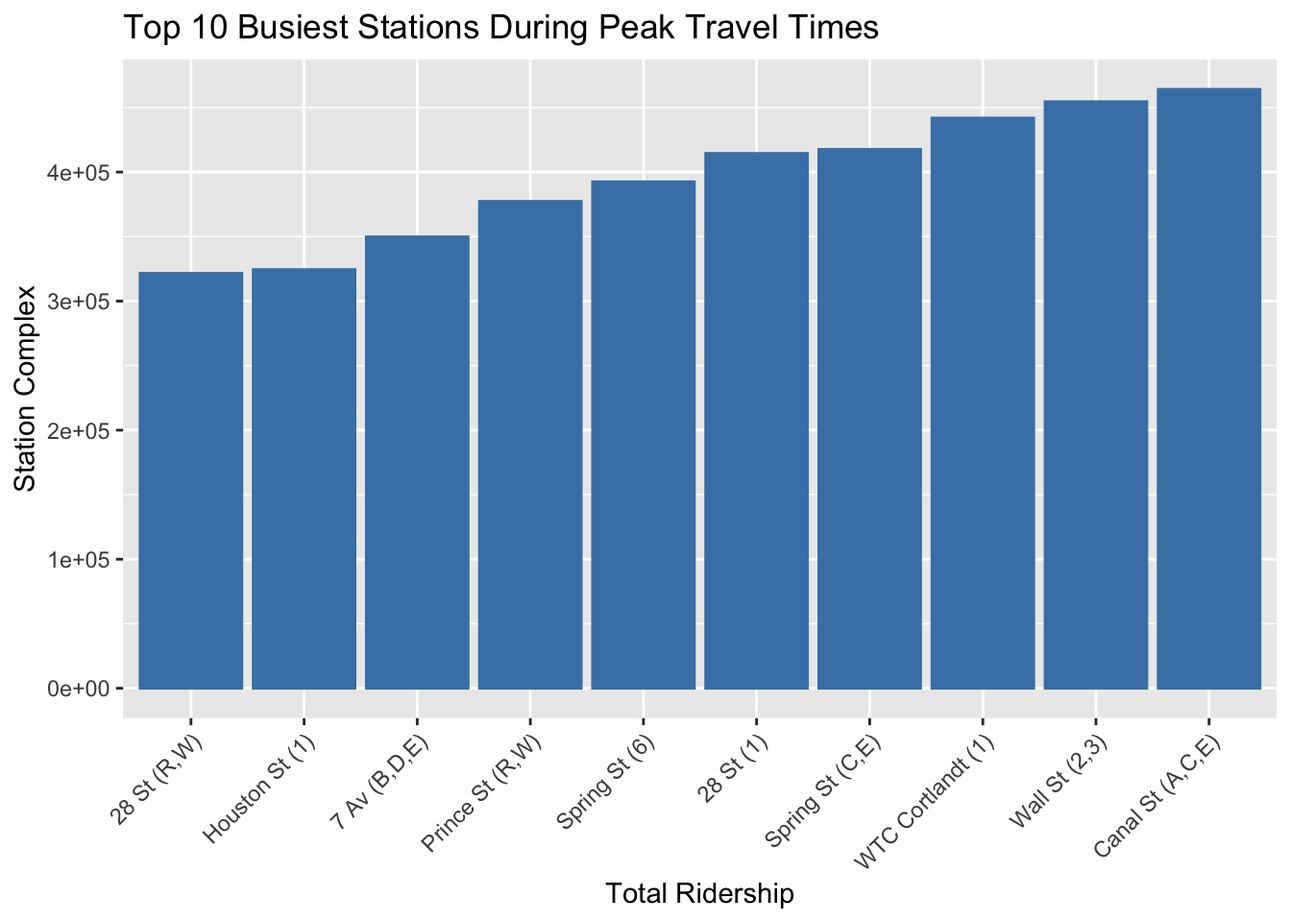
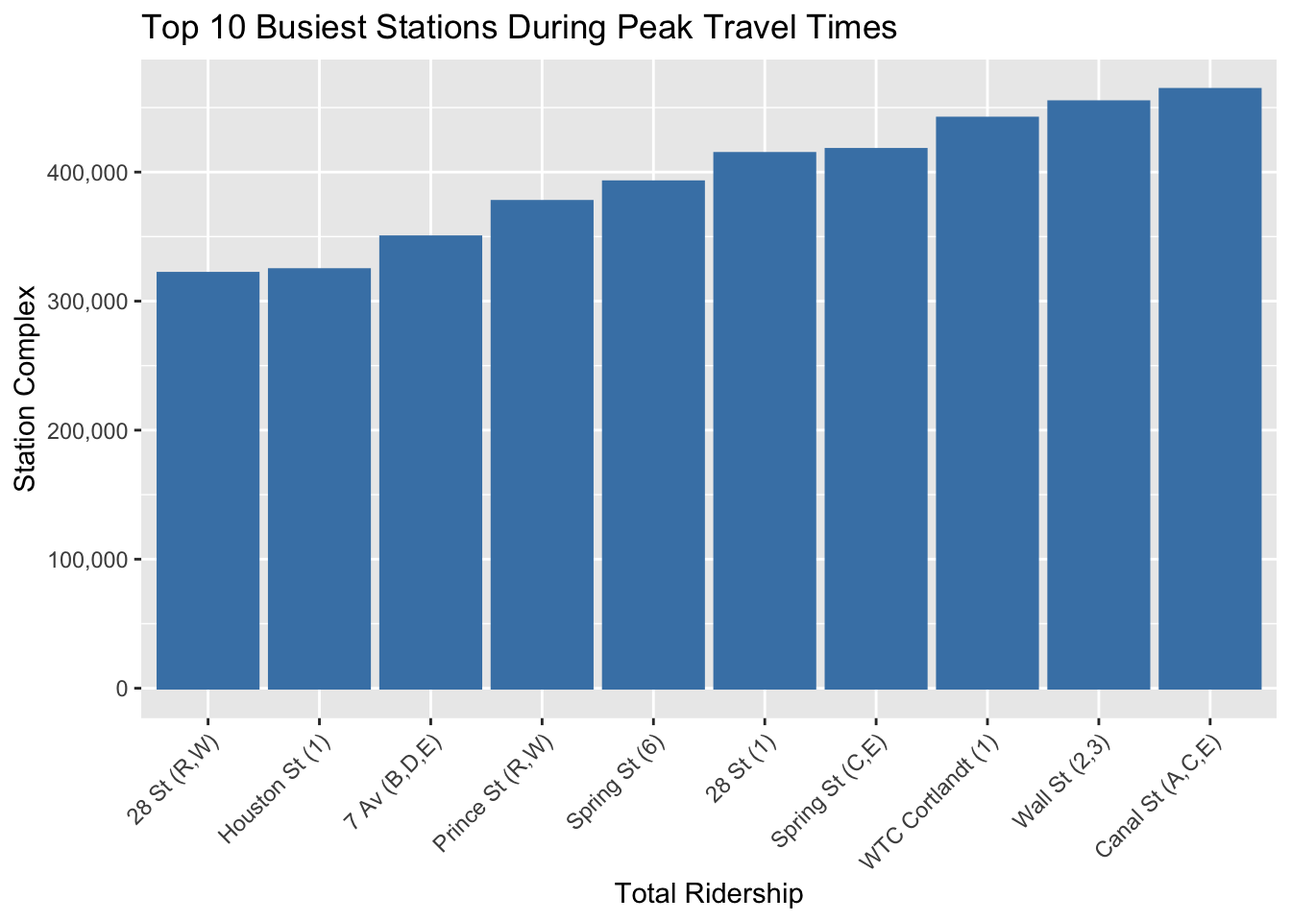
Adding Headings

diff --git a/docs/results.html b/docs/results.html
@@ -191,8 +191,8 @@ pre > code.sourceCode > span > a:first-child::before { text-decoration: underlin
   <li><a href="#navigating-transit-trends-seasonal-ridership-fluctuations-across-boroughs" id="toc-navigating-transit-trends-seasonal-ridership-fluctuations-across-boroughs" class="nav-link" data-scroll-target="#navigating-transit-trends-seasonal-ridership-fluctuations-across-boroughs"><span class="header-section-number">3.6</span> Navigating Transit Trends: Seasonal Ridership Fluctuations Across Boroughs</a></li>
   <li><a href="#hourly-transit-flow-throughout-the-week" id="toc-hourly-transit-flow-throughout-the-week" class="nav-link" data-scroll-target="#hourly-transit-flow-throughout-the-week"><span class="header-section-number">3.7</span> Hourly Transit Flow Throughout the Week</a></li>
   <li><a href="#borough-specific-transit-routes-analyzing-inter-borough-connectivity" id="toc-borough-specific-transit-routes-analyzing-inter-borough-connectivity" class="nav-link" data-scroll-target="#borough-specific-transit-routes-analyzing-inter-borough-connectivity"><span class="header-section-number">3.8</span> Borough-Specific Transit Routes: Analyzing Inter-Borough Connectivity</a></li>
-  <li><a href="#hai" id="toc-hai" class="nav-link" data-scroll-target="#hai"><span class="header-section-number">3.9</span> Hai</a></li>
-  <li><a href="#hai-1" id="toc-hai-1" class="nav-link" data-scroll-target="#hai-1"><span class="header-section-number">3.10</span> Hai</a></li>
+  <li><a href="#interactive-scatter-plot-based-on-zipcode" id="toc-interactive-scatter-plot-based-on-zipcode" class="nav-link" data-scroll-target="#interactive-scatter-plot-based-on-zipcode"><span class="header-section-number">3.9</span> Interactive Scatter Plot based on Zipcode</a></li>
+  <li><a href="#top-10-stations-during-peak-and-non-peak-times" id="toc-top-10-stations-during-peak-and-non-peak-times" class="nav-link" data-scroll-target="#top-10-stations-during-peak-and-non-peak-times"><span class="header-section-number">3.10</span> Top 10 Stations during Peak and Non Peak Times</a></li>
   </ul>
 <div class="toc-actions"><div><i class="bi bi-git"></i></div><div class="action-links"><p><a href="https://prajnag.github.io/MTA-turnstile-data/edit/main/results.qmd" class="toc-action">Edit this page</a></p><p><a href="https://prajnag.github.io/MTA-turnstile-data/issues/new" class="toc-action">Report an issue</a></p></div></div></nav>
     </div>
@@ -395,8 +395,8 @@ pre > code.sourceCode > span > a:first-child::before { text-decoration: underlin
 <span id="cb6-19"><a href="#cb6-19" aria-hidden="true" tabindex="-1"></a><span class="fu">ggplotly</span>(p)</span></code><button title="Copy to Clipboard" class="code-copy-button"><i class="bi"></i></button></pre></div>
 </details>
 <div class="cell-output-display">
-<div class="plotly html-widget html-fill-item-overflow-hidden html-fill-item" id="htmlwidget-06c3bc5710b1a30c9cb9" style="width:100%;height:464px;"></div>
-<script type="application/json" data-for="htmlwidget-06c3bc5710b1a30c9cb9">{"x":{"data":[{"x":[19174,19205,19236,19266,19297,19327],"y":[144,100,164,144,167,174],"text":["month: 2022-07-01<br />Total_Ridership: 144<br />borough: Bronx<br />borough: Bronx","month: 2022-08-01<br />Total_Ridership: 100<br />borough: Bronx<br />borough: Bronx","month: 2022-09-01<br />Total_Ridership: 164<br />borough: Bronx<br />borough: Bronx","month: 2022-10-01<br />Total_Ridership: 144<br />borough: Bronx<br />borough: Bronx","month: 2022-11-01<br />Total_Ridership: 167<br />borough: Bronx<br />borough: Bronx","month: 2022-12-01<br />Total_Ridership: 174<br />borough: Bronx<br />borough: Bronx"],"type":"scatter","mode":"lines","line":{"width":1.8897637795275593,"color":"rgba(68,1,84,1)","dash":"solid"},"hoveron":"points","name":"Bronx","legendgroup":"Bronx","showlegend":true,"xaxis":"x","yaxis":"y","hoverinfo":"text","frame":null},{"x":[19174,19205,19236,19266,19297,19327],"y":[144,200,100,131,156,150],"text":["month: 2022-07-01<br />Total_Ridership: 144<br />borough: Brooklyn<br />borough: Brooklyn","month: 2022-08-01<br />Total_Ridership: 200<br />borough: Brooklyn<br />borough: Brooklyn","month: 2022-09-01<br />Total_Ridership: 100<br />borough: Brooklyn<br />borough: Brooklyn","month: 2022-10-01<br />Total_Ridership: 131<br />borough: Brooklyn<br />borough: Brooklyn","month: 2022-11-01<br />Total_Ridership: 156<br />borough: Brooklyn<br />borough: Brooklyn","month: 2022-12-01<br />Total_Ridership: 150<br />borough: Brooklyn<br />borough: Brooklyn"],"type":"scatter","mode":"lines","line":{"width":1.8897637795275593,"color":"rgba(59,82,139,1)","dash":"solid"},"hoveron":"points","name":"Brooklyn","legendgroup":"Brooklyn","showlegend":true,"xaxis":"x","yaxis":"y","hoverinfo":"text","frame":null},{"x":[19174,19205,19236,19266,19297,19327],"y":[195,185,138,120,135,100],"text":["month: 2022-07-01<br />Total_Ridership: 195<br />borough: Manhattan<br />borough: Manhattan","month: 2022-08-01<br />Total_Ridership: 185<br />borough: Manhattan<br />borough: Manhattan","month: 2022-09-01<br />Total_Ridership: 138<br />borough: Manhattan<br />borough: Manhattan","month: 2022-10-01<br />Total_Ridership: 120<br />borough: Manhattan<br />borough: Manhattan","month: 2022-11-01<br />Total_Ridership: 135<br />borough: Manhattan<br />borough: Manhattan","month: 2022-12-01<br />Total_Ridership: 100<br />borough: Manhattan<br />borough: Manhattan"],"type":"scatter","mode":"lines","line":{"width":1.8897637795275593,"color":"rgba(33,144,140,1)","dash":"solid"},"hoveron":"points","name":"Manhattan","legendgroup":"Manhattan","showlegend":true,"xaxis":"x","yaxis":"y","hoverinfo":"text","frame":null},{"x":[19174,19205,19236,19266,19297,19327],"y":[180,102,143,194,166,136],"text":["month: 2022-07-01<br />Total_Ridership: 180<br />borough: Queens<br />borough: Queens","month: 2022-08-01<br />Total_Ridership: 102<br />borough: Queens<br />borough: Queens","month: 2022-09-01<br />Total_Ridership: 143<br />borough: Queens<br />borough: Queens","month: 2022-10-01<br />Total_Ridership: 194<br />borough: Queens<br />borough: Queens","month: 2022-11-01<br />Total_Ridership: 166<br />borough: Queens<br />borough: Queens","month: 2022-12-01<br />Total_Ridership: 136<br />borough: Queens<br />borough: Queens"],"type":"scatter","mode":"lines","line":{"width":1.8897637795275593,"color":"rgba(93,200,99,1)","dash":"solid"},"hoveron":"points","name":"Queens","legendgroup":"Queens","showlegend":true,"xaxis":"x","yaxis":"y","hoverinfo":"text","frame":null},{"x":[19174,19205,19236,19266,19297,19327],"y":[110,158,130,167,151,119],"text":["month: 2022-07-01<br />Total_Ridership: 110<br />borough: Staten Island<br />borough: Staten Island","month: 2022-08-01<br />Total_Ridership: 158<br />borough: Staten Island<br />borough: Staten Island","month: 2022-09-01<br />Total_Ridership: 130<br />borough: Staten Island<br />borough: Staten Island","month: 2022-10-01<br />Total_Ridership: 167<br />borough: Staten Island<br />borough: Staten Island","month: 2022-11-01<br />Total_Ridership: 151<br />borough: Staten Island<br />borough: Staten Island","month: 2022-12-01<br />Total_Ridership: 119<br />borough: Staten Island<br />borough: Staten Island"],"type":"scatter","mode":"lines","line":{"width":1.8897637795275593,"color":"rgba(253,231,37,1)","dash":"solid"},"hoveron":"points","name":"Staten Island","legendgroup":"Staten Island","showlegend":true,"xaxis":"x","yaxis":"y","hoverinfo":"text","frame":null}],"layout":{"margin":{"t":43.762557077625573,"r":7.3059360730593621,"b":40.182648401826498,"l":43.105022831050235},"plot_bgcolor":"rgba(235,235,235,1)","paper_bgcolor":"rgba(255,255,255,1)","font":{"color":"rgba(0,0,0,1)","family":"","size":14.611872146118724},"title":{"text":"Total Ridership Over Time by Month and Borough","font":{"color":"rgba(0,0,0,1)","family":"","size":17.534246575342465},"x":0,"xref":"paper"},"xaxis":{"domain":[0,1],"automargin":true,"type":"linear","autorange":false,"range":[19166.349999999999,19334.650000000001],"tickmode":"array","ticktext":["Jul","Aug","Sep","Oct","Nov","Dec"],"tickvals":[19174,19205,19236,19266,19297,19327],"categoryorder":"array","categoryarray":["Jul","Aug","Sep","Oct","Nov","Dec"],"nticks":null,"ticks":"outside","tickcolor":"rgba(51,51,51,1)","ticklen":3.6529680365296811,"tickwidth":0.66417600664176002,"showticklabels":true,"tickfont":{"color":"rgba(77,77,77,1)","family":"","size":11.68949771689498},"tickangle":-0,"showline":false,"linecolor":null,"linewidth":0,"showgrid":true,"gridcolor":"rgba(255,255,255,1)","gridwidth":0.66417600664176002,"zeroline":false,"anchor":"y","title":{"text":"Month","font":{"color":"rgba(0,0,0,1)","family":"","size":14.611872146118724}},"hoverformat":".2f"},"yaxis":{"domain":[0,1],"automargin":true,"type":"linear","autorange":false,"range":[95,205],"tickmode":"array","ticktext":["100","125","150","175","200"],"tickvals":[100,125,150,175,200],"categoryorder":"array","categoryarray":["100","125","150","175","200"],"nticks":null,"ticks":"outside","tickcolor":"rgba(51,51,51,1)","ticklen":3.6529680365296811,"tickwidth":0.66417600664176002,"showticklabels":true,"tickfont":{"color":"rgba(77,77,77,1)","family":"","size":11.68949771689498},"tickangle":-0,"showline":false,"linecolor":null,"linewidth":0,"showgrid":true,"gridcolor":"rgba(255,255,255,1)","gridwidth":0.66417600664176002,"zeroline":false,"anchor":"x","title":{"text":"Total Ridership","font":{"color":"rgba(0,0,0,1)","family":"","size":14.611872146118724}},"hoverformat":".2f"},"shapes":[{"type":"rect","fillcolor":null,"line":{"color":null,"width":0,"linetype":[]},"yref":"paper","xref":"paper","x0":0,"x1":1,"y0":0,"y1":1}],"showlegend":true,"legend":{"bgcolor":"rgba(255,255,255,1)","bordercolor":"transparent","borderwidth":1.8897637795275593,"font":{"color":"rgba(0,0,0,1)","family":"","size":11.68949771689498},"title":{"text":"borough","font":{"color":"rgba(0,0,0,1)","family":"","size":14.611872146118724}}},"hovermode":"closest","barmode":"relative"},"config":{"doubleClick":"reset","modeBarButtonsToAdd":["hoverclosest","hovercompare"],"showSendToCloud":false},"source":"A","attrs":{"3d351ce34062":{"x":{},"y":{},"colour":{},"type":"scatter"}},"cur_data":"3d351ce34062","visdat":{"3d351ce34062":["function (y) ","x"]},"highlight":{"on":"plotly_click","persistent":false,"dynamic":false,"selectize":false,"opacityDim":0.20000000000000001,"selected":{"opacity":1},"debounce":0},"shinyEvents":["plotly_hover","plotly_click","plotly_selected","plotly_relayout","plotly_brushed","plotly_brushing","plotly_clickannotation","plotly_doubleclick","plotly_deselect","plotly_afterplot","plotly_sunburstclick"],"base_url":"https://plot.ly"},"evals":[],"jsHooks":[]}</script>
+<div class="plotly html-widget html-fill-item-overflow-hidden html-fill-item" id="htmlwidget-8f3cff77507266e52c4b" style="width:100%;height:464px;"></div>
+<script type="application/json" data-for="htmlwidget-8f3cff77507266e52c4b">{"x":{"data":[{"x":[19174,19205,19236,19266,19297,19327],"y":[178,127,181,115,120,134],"text":["month: 2022-07-01<br />Total_Ridership: 178<br />borough: Bronx<br />borough: Bronx","month: 2022-08-01<br />Total_Ridership: 127<br />borough: Bronx<br />borough: Bronx","month: 2022-09-01<br />Total_Ridership: 181<br />borough: Bronx<br />borough: Bronx","month: 2022-10-01<br />Total_Ridership: 115<br />borough: Bronx<br />borough: Bronx","month: 2022-11-01<br />Total_Ridership: 120<br />borough: Bronx<br />borough: Bronx","month: 2022-12-01<br />Total_Ridership: 134<br />borough: Bronx<br />borough: Bronx"],"type":"scatter","mode":"lines","line":{"width":1.8897637795275593,"color":"rgba(68,1,84,1)","dash":"solid"},"hoveron":"points","name":"Bronx","legendgroup":"Bronx","showlegend":true,"xaxis":"x","yaxis":"y","hoverinfo":"text","frame":null},{"x":[19174,19205,19236,19266,19297,19327],"y":[110,184,157,173,172,180],"text":["month: 2022-07-01<br />Total_Ridership: 110<br />borough: Brooklyn<br />borough: Brooklyn","month: 2022-08-01<br />Total_Ridership: 184<br />borough: Brooklyn<br />borough: Brooklyn","month: 2022-09-01<br />Total_Ridership: 157<br />borough: Brooklyn<br />borough: Brooklyn","month: 2022-10-01<br />Total_Ridership: 173<br />borough: Brooklyn<br />borough: Brooklyn","month: 2022-11-01<br />Total_Ridership: 172<br />borough: Brooklyn<br />borough: Brooklyn","month: 2022-12-01<br />Total_Ridership: 180<br />borough: Brooklyn<br />borough: Brooklyn"],"type":"scatter","mode":"lines","line":{"width":1.8897637795275593,"color":"rgba(59,82,139,1)","dash":"solid"},"hoveron":"points","name":"Brooklyn","legendgroup":"Brooklyn","showlegend":true,"xaxis":"x","yaxis":"y","hoverinfo":"text","frame":null},{"x":[19174,19205,19236,19266,19297,19327],"y":[155,183,140,126,155,179],"text":["month: 2022-07-01<br />Total_Ridership: 155<br />borough: Manhattan<br />borough: Manhattan","month: 2022-08-01<br />Total_Ridership: 183<br />borough: Manhattan<br />borough: Manhattan","month: 2022-09-01<br />Total_Ridership: 140<br />borough: Manhattan<br />borough: Manhattan","month: 2022-10-01<br />Total_Ridership: 126<br />borough: Manhattan<br />borough: Manhattan","month: 2022-11-01<br />Total_Ridership: 155<br />borough: Manhattan<br />borough: Manhattan","month: 2022-12-01<br />Total_Ridership: 179<br />borough: Manhattan<br />borough: Manhattan"],"type":"scatter","mode":"lines","line":{"width":1.8897637795275593,"color":"rgba(33,144,140,1)","dash":"solid"},"hoveron":"points","name":"Manhattan","legendgroup":"Manhattan","showlegend":true,"xaxis":"x","yaxis":"y","hoverinfo":"text","frame":null},{"x":[19174,19205,19236,19266,19297,19327],"y":[120,137,101,115,188,158],"text":["month: 2022-07-01<br />Total_Ridership: 120<br />borough: Queens<br />borough: Queens","month: 2022-08-01<br />Total_Ridership: 137<br />borough: Queens<br />borough: Queens","month: 2022-09-01<br />Total_Ridership: 101<br />borough: Queens<br />borough: Queens","month: 2022-10-01<br />Total_Ridership: 115<br />borough: Queens<br />borough: Queens","month: 2022-11-01<br />Total_Ridership: 188<br />borough: Queens<br />borough: Queens","month: 2022-12-01<br />Total_Ridership: 158<br />borough: Queens<br />borough: Queens"],"type":"scatter","mode":"lines","line":{"width":1.8897637795275593,"color":"rgba(93,200,99,1)","dash":"solid"},"hoveron":"points","name":"Queens","legendgroup":"Queens","showlegend":true,"xaxis":"x","yaxis":"y","hoverinfo":"text","frame":null},{"x":[19174,19205,19236,19266,19297,19327],"y":[140,157,169,123,159,165],"text":["month: 2022-07-01<br />Total_Ridership: 140<br />borough: Staten Island<br />borough: Staten Island","month: 2022-08-01<br />Total_Ridership: 157<br />borough: Staten Island<br />borough: Staten Island","month: 2022-09-01<br />Total_Ridership: 169<br />borough: Staten Island<br />borough: Staten Island","month: 2022-10-01<br />Total_Ridership: 123<br />borough: Staten Island<br />borough: Staten Island","month: 2022-11-01<br />Total_Ridership: 159<br />borough: Staten Island<br />borough: Staten Island","month: 2022-12-01<br />Total_Ridership: 165<br />borough: Staten Island<br />borough: Staten Island"],"type":"scatter","mode":"lines","line":{"width":1.8897637795275593,"color":"rgba(253,231,37,1)","dash":"solid"},"hoveron":"points","name":"Staten Island","legendgroup":"Staten Island","showlegend":true,"xaxis":"x","yaxis":"y","hoverinfo":"text","frame":null}],"layout":{"margin":{"t":43.762557077625573,"r":7.3059360730593621,"b":40.182648401826498,"l":43.105022831050235},"plot_bgcolor":"rgba(235,235,235,1)","paper_bgcolor":"rgba(255,255,255,1)","font":{"color":"rgba(0,0,0,1)","family":"","size":14.611872146118724},"title":{"text":"Total Ridership Over Time by Month and Borough","font":{"color":"rgba(0,0,0,1)","family":"","size":17.534246575342465},"x":0,"xref":"paper"},"xaxis":{"domain":[0,1],"automargin":true,"type":"linear","autorange":false,"range":[19166.349999999999,19334.650000000001],"tickmode":"array","ticktext":["Jul","Aug","Sep","Oct","Nov","Dec"],"tickvals":[19174,19205,19236,19266,19297,19327],"categoryorder":"array","categoryarray":["Jul","Aug","Sep","Oct","Nov","Dec"],"nticks":null,"ticks":"outside","tickcolor":"rgba(51,51,51,1)","ticklen":3.6529680365296811,"tickwidth":0.66417600664176002,"showticklabels":true,"tickfont":{"color":"rgba(77,77,77,1)","family":"","size":11.68949771689498},"tickangle":-0,"showline":false,"linecolor":null,"linewidth":0,"showgrid":true,"gridcolor":"rgba(255,255,255,1)","gridwidth":0.66417600664176002,"zeroline":false,"anchor":"y","title":{"text":"Month","font":{"color":"rgba(0,0,0,1)","family":"","size":14.611872146118724}},"hoverformat":".2f"},"yaxis":{"domain":[0,1],"automargin":true,"type":"linear","autorange":false,"range":[96.650000000000006,192.34999999999999],"tickmode":"array","ticktext":["100","125","150","175"],"tickvals":[100,125,150,175],"categoryorder":"array","categoryarray":["100","125","150","175"],"nticks":null,"ticks":"outside","tickcolor":"rgba(51,51,51,1)","ticklen":3.6529680365296811,"tickwidth":0.66417600664176002,"showticklabels":true,"tickfont":{"color":"rgba(77,77,77,1)","family":"","size":11.68949771689498},"tickangle":-0,"showline":false,"linecolor":null,"linewidth":0,"showgrid":true,"gridcolor":"rgba(255,255,255,1)","gridwidth":0.66417600664176002,"zeroline":false,"anchor":"x","title":{"text":"Total Ridership","font":{"color":"rgba(0,0,0,1)","family":"","size":14.611872146118724}},"hoverformat":".2f"},"shapes":[{"type":"rect","fillcolor":null,"line":{"color":null,"width":0,"linetype":[]},"yref":"paper","xref":"paper","x0":0,"x1":1,"y0":0,"y1":1}],"showlegend":true,"legend":{"bgcolor":"rgba(255,255,255,1)","bordercolor":"transparent","borderwidth":1.8897637795275593,"font":{"color":"rgba(0,0,0,1)","family":"","size":11.68949771689498},"title":{"text":"borough","font":{"color":"rgba(0,0,0,1)","family":"","size":14.611872146118724}}},"hovermode":"closest","barmode":"relative"},"config":{"doubleClick":"reset","modeBarButtonsToAdd":["hoverclosest","hovercompare"],"showSendToCloud":false},"source":"A","attrs":{"435c6f84659d":{"x":{},"y":{},"colour":{},"type":"scatter"}},"cur_data":"435c6f84659d","visdat":{"435c6f84659d":["function (y) ","x"]},"highlight":{"on":"plotly_click","persistent":false,"dynamic":false,"selectize":false,"opacityDim":0.20000000000000001,"selected":{"opacity":1},"debounce":0},"shinyEvents":["plotly_hover","plotly_click","plotly_selected","plotly_relayout","plotly_brushed","plotly_brushing","plotly_clickannotation","plotly_doubleclick","plotly_deselect","plotly_afterplot","plotly_sunburstclick"],"base_url":"https://plot.ly"},"evals":[],"jsHooks":[]}</script>
 </div>
 </div>
 <p>This plot is a line chart that tracks the changes in public transportation ridership across the five boroughs of New York City (Bronx, Brooklyn, Manhattan, Queens, and Staten Island) over a six-month period. The y-axis indicates the total ridership, while the x-axis represents the time, marked from July to December.</p>
@@ -470,8 +470,8 @@ pre > code.sourceCode > span > a:first-child::before { text-decoration: underlin
 <p>The graph presented is a simplified representation of the common transit routes shared between boroughs, where each line corresponds to a borough, and the marks along it represent the various routes that pass through. The lack of intersection between lines suggests that there are no routes in this dataset that are shared between boroughs; each route is unique to its borough. This could indicate a transit system where boroughs operate somewhat independently, or it could be a visual abstraction that does not account for connections or transfers between routes.</p>
 <p>From this graph, we can infer that the transit system is potentially segmented by borough, with each area having distinct routes. The absence of inter-borough routes may reflect a focus on intra-borough connectivity, or it might be a limitation of the dataset or the specific visualization technique used. For urban planners and transit authorities, such a graph could highlight the potential need to improve inter-borough connectivity if such routes are indeed lacking, or it could validate a strategy that prioritizes strengthening transport within each borough</p>
 </section>
-<section id="hai" class="level2" data-number="3.9">
-<h2 data-number="3.9" class="anchored" data-anchor-id="hai"><span class="header-section-number">3.9</span> Hai</h2>
+<section id="interactive-scatter-plot-based-on-zipcode" class="level2" data-number="3.9">
+<h2 data-number="3.9" class="anchored" data-anchor-id="interactive-scatter-plot-based-on-zipcode"><span class="header-section-number">3.9</span> Interactive Scatter Plot based on Zipcode</h2>
 <div class="cell">
 <details>
 <summary>Code</summary>
@@ -505,16 +505,16 @@ using the `.groups` argument.</code></pre>
 <pre><code>Warning: Ignoring 1 observations</code></pre>
 </div>
 <div class="cell-output-display">
-<div class="plotly html-widget html-fill-item-overflow-hidden html-fill-item" id="htmlwidget-530fb227fc718808662e" style="width:100%;height:464px;"></div>
-<script type="application/json" data-for="htmlwidget-530fb227fc718808662e">{"x":{"visdat":{"3d352ad6fd58":["function () ","plotlyVisDat"]},"cur_data":"3d352ad6fd58","attrs":{"3d352ad6fd58":{"x":{},"y":{},"text":{},"mode":"markers","color":{},"alpha_stroke":1,"sizes":[10,100],"spans":[1,20],"type":"scatter"}},"layout":{"margin":{"b":40,"l":60,"t":25,"r":10},"title":"Interactive Scatter Plot of Number of Stations by Zip Code","xaxis":{"domain":[0,1],"automargin":true,"title":"New York Zip Codes"},"yaxis":{"domain":[0,1],"automargin":true,"title":"Number of Stations"},"hovermode":"closest","showlegend":true},"source":"A","config":{"modeBarButtonsToAdd":["hoverclosest","hovercompare"],"showSendToCloud":false},"data":[{"x":[809,810,811,812,813,814,815,816,818,819,820,821,849,880,882,883,884,885,886,887,888,889,890,891,892,893,894,895,896,897,899,900,901,902,903],"y":[7,6,1,3,7,1,2,3,3,2,4,7,1,9,4,1,8,12,7,3,2,6,6,4,5,6,1,6,3,6,5,4,2,7,3],"text":["R635, R622, R637, R636, B014, B013, R623","B017, R641, B018, B019, R639, B016","E009","B026, B025, B024","B020, B022, N555, N551, N549, B021, N553","N535","C016, C018","N121B, N122, N124","B032, B029, B027","H040, H041","K019, H022, H023, H026","N420B, R621, B009, N111, N114, N419, R619","H028","R600, N530, N100, N532, R602, N108, N103, C008, R606","D009, D010, N556, D008","N417","N414, J005, H017, H019, N412, N415, J009, J007","H033, J017, R633, N126, J021, H032, H035, R634, R632, H039, N125, J020","J022, J023, N127, J024, N129, J025, N128","C027, C024, C025","R643, R645","J003, H013, H012, J001, H009, H015","H037, R628, R627, R629, R630, H038","R624, N119, N120, R626","E013, E011, E015, E012, E014","C014, C010, N539A, N542, N536, C012","N116","R617, N422, N110, R608, B004, R610","N548, N543, N546","E005, E003, E006, D003, E001, E004","C019, C020, C021, D002, C023","K017, J013, J016, J012","N405, N408A","E016, N561, N557, D012, D016, D015, N559","G011, N562, G009"],"mode":"markers","type":"scatter","name":"BK","marker":{"color":"rgba(102,194,165,1)","line":{"color":"rgba(102,194,165,1)"}},"textfont":{"color":"rgba(102,194,165,1)"},"error_y":{"color":"rgba(102,194,165,1)"},"error_x":{"color":"rgba(102,194,165,1)"},"line":{"color":"rgba(102,194,165,1)"},"xaxis":"x","yaxis":"y","frame":null},{"x":[647,648,649,650,651,652,653,654,655,673,674,675,676,679,704,705,706,707,708,709],"y":[3,4,4,4,4,1,2,3,6,3,4,5,2,4,7,3,3,1,1,4],"text":["R259, N203, R261","R285, N207, R284, R283","N210, R288, R286, R287","R402, R404, R406, R401","R312, R408, R410, R310","N209","N215, N213","N217, N221, N222","R320, R316, R413, R314, R318, R412","R322, R325, R323","R421, R422, R420, R423","R726, R419, R328, R326, R418","R196, R194","R333, R730, R335, R334","R329, R330, R294, R332, R331, R293, N224","R289, R290, R291","R729, R727, R728","R336","R197","R414, R416, R415, R417"],"mode":"markers","type":"scatter","name":"BX","marker":{"color":"rgba(252,141,98,1)","line":{"color":"rgba(252,141,98,1)"}},"textfont":{"color":"rgba(252,141,98,1)"},"error_y":{"color":"rgba(252,141,98,1)"},"error_x":{"color":"rgba(252,141,98,1)"},"line":{"color":"rgba(252,141,98,1)"},"xaxis":"x","yaxis":"y","frame":null},{"x":[583,590,676,717,718,719,720,721,722,723,724,734,735,736,737,738,739,742,743,744,749,750,751,752,753,754,755,756,757,758,791,792,793,794,795,796,797,798,799,800],"y":[2,1,1,6,4,5,2,3,3,4,1,3,6,4,4,2,2,6,1,2,3,2,2,3,4,4,2,3,1,3,4,3,4,1,1,1,1,3,3,1],"text":["N702, R251","R238","R192","R133, A027, R550, R135, A022, N070","N529, A064, N520, N525","R219, A038, N523, H006, A034","R201, R101","A083, R111, R203","R106, A054, R103","A069, A047, R116, N094","H007","R226, N508, A030","R129, N080, R131, N076, N078, N512","R215, N086, A041, R217","R119, N089, R117, A043","R125, R123","R228, R231","N301, A013, R154, N056, N600, A010","N500","R247, N700","N303, N305, A002","R161B, R160","R164, R162","R170, R172, R168","N035, N030, R302, R301","R173, R174, R304, N026","N701, R249","R252, R254, R256","N024","R176, R178, N019","N017, N016A, R180, R182","N007A, N010, R183","R190, N003, R188, N002A","R258","N060","R306","N095","R308, N202, R309","R185, R186, N006A","N602"],"mode":"markers","type":"scatter","name":"M","marker":{"color":"rgba(141,160,203,1)","line":{"color":"rgba(141,160,203,1)"}},"textfont":{"color":"rgba(141,160,203,1)"},"error_y":{"color":"rgba(141,160,203,1)"},"error_x":{"color":"rgba(141,160,203,1)"},"line":{"color":"rgba(141,160,203,1)"},"xaxis":"x","yaxis":"y","frame":null},{"x":[824,838,843,844,845,846,848,849,853,873,874,875,876,877,878,1027,1028,1029,1030,1162,1164,1165,1166,1168,1216,1262],"y":[1,3,7,1,4,5,1,3,1,10,2,2,2,1,2,4,2,2,3,1,6,4,2,3,4,2],"text":["R533","R530, R529, R532","R527, N325A, R526, R528, N329, R525, N327","N330B","N331, N334B, N333A, N336","R521, N322, R523, R524, N318","K026","K022, K024, K025","N182","N401, R516, N312, R510, R507, R504, N307, R509, N309A, N603","R513, R514","N316, N315","R518, R519","R515","R512, R511","N195, N194, N196, N193","N192, N191","N184, N183","N185, N187, N186","N337","N131, N133, N181A, N137, N181, N134","J034, N604, J037, J035","N139, N141","J028, J030, J031","N340A, N339A, N343, N606","N338B, N605"],"mode":"markers","type":"scatter","name":"Q","marker":{"color":"rgba(231,138,195,1)","line":{"color":"rgba(231,138,195,1)"}},"textfont":{"color":"rgba(231,138,195,1)"},"error_y":{"color":"rgba(231,138,195,1)"},"error_x":{"color":"rgba(231,138,195,1)"},"line":{"color":"rgba(231,138,195,1)"},"xaxis":"x","yaxis":"y","frame":null},{"x":[604,607],"y":[1,1],"text":["S101","S102"],"mode":"markers","type":"scatter","name":"SI","marker":{"color":"rgba(166,216,84,1)","line":{"color":"rgba(166,216,84,1)"}},"textfont":{"color":"rgba(166,216,84,1)"},"error_y":{"color":"rgba(166,216,84,1)"},"error_x":{"color":"rgba(166,216,84,1)"},"line":{"color":"rgba(166,216,84,1)"},"xaxis":"x","yaxis":"y","frame":null}],"highlight":{"on":"plotly_click","persistent":false,"dynamic":false,"selectize":false,"opacityDim":0.20000000000000001,"selected":{"opacity":1},"debounce":0},"shinyEvents":["plotly_hover","plotly_click","plotly_selected","plotly_relayout","plotly_brushed","plotly_brushing","plotly_clickannotation","plotly_doubleclick","plotly_deselect","plotly_afterplot","plotly_sunburstclick"],"base_url":"https://plot.ly"},"evals":[],"jsHooks":[]}</script>
+<div class="plotly html-widget html-fill-item-overflow-hidden html-fill-item" id="htmlwidget-fad0d09baab9e0c31c70" style="width:100%;height:464px;"></div>
+<script type="application/json" data-for="htmlwidget-fad0d09baab9e0c31c70">{"x":{"visdat":{"435c1da2c19e":["function () ","plotlyVisDat"]},"cur_data":"435c1da2c19e","attrs":{"435c1da2c19e":{"x":{},"y":{},"text":{},"mode":"markers","color":{},"alpha_stroke":1,"sizes":[10,100],"spans":[1,20],"type":"scatter"}},"layout":{"margin":{"b":40,"l":60,"t":25,"r":10},"title":"Interactive Scatter Plot of Number of Stations by Zip Code","xaxis":{"domain":[0,1],"automargin":true,"title":"New York Zip Codes"},"yaxis":{"domain":[0,1],"automargin":true,"title":"Number of Stations"},"hovermode":"closest","showlegend":true},"source":"A","config":{"modeBarButtonsToAdd":["hoverclosest","hovercompare"],"showSendToCloud":false},"data":[{"x":[809,810,811,812,813,814,815,816,818,819,820,821,849,880,882,883,884,885,886,887,888,889,890,891,892,893,894,895,896,897,899,900,901,902,903],"y":[7,6,1,3,7,1,2,3,3,2,4,7,1,9,4,1,8,12,7,3,2,6,6,4,5,6,1,6,3,6,5,4,2,7,3],"text":["R635, R622, R637, R636, B014, B013, R623","B017, R641, B018, B019, R639, B016","E009","B026, B025, B024","B020, B022, N555, N551, N549, B021, N553","N535","C016, C018","N121B, N122, N124","B032, B029, B027","H040, H041","K019, H022, H023, H026","N420B, R621, B009, N111, N114, N419, R619","H028","R600, N530, N100, N532, R602, N108, N103, C008, R606","D009, D010, N556, D008","N417","N414, J005, H017, H019, N412, N415, J009, J007","H033, J017, R633, N126, J021, H032, H035, R634, R632, H039, N125, J020","J022, J023, N127, J024, N129, J025, N128","C027, C024, C025","R643, R645","J003, H013, H012, J001, H009, H015","H037, R628, R627, R629, R630, H038","R624, N119, N120, R626","E013, E011, E015, E012, E014","C014, C010, N539A, N542, N536, C012","N116","R617, N422, N110, R608, B004, R610","N548, N543, N546","E005, E003, E006, D003, E001, E004","C019, C020, C021, D002, C023","K017, J013, J016, J012","N405, N408A","E016, N561, N557, D012, D016, D015, N559","G011, N562, G009"],"mode":"markers","type":"scatter","name":"BK","marker":{"color":"rgba(102,194,165,1)","line":{"color":"rgba(102,194,165,1)"}},"textfont":{"color":"rgba(102,194,165,1)"},"error_y":{"color":"rgba(102,194,165,1)"},"error_x":{"color":"rgba(102,194,165,1)"},"line":{"color":"rgba(102,194,165,1)"},"xaxis":"x","yaxis":"y","frame":null},{"x":[647,648,649,650,651,652,653,654,655,673,674,675,676,679,704,705,706,707,708,709],"y":[3,4,4,4,4,1,2,3,6,3,4,5,2,4,7,3,3,1,1,4],"text":["R259, N203, R261","R285, N207, R284, R283","N210, R288, R286, R287","R402, R404, R406, R401","R312, R408, R410, R310","N209","N215, N213","N217, N221, N222","R320, R316, R413, R314, R318, R412","R322, R325, R323","R421, R422, R420, R423","R726, R419, R328, R326, R418","R196, R194","R333, R730, R335, R334","R329, R330, R294, R332, R331, R293, N224","R289, R290, R291","R729, R727, R728","R336","R197","R414, R416, R415, R417"],"mode":"markers","type":"scatter","name":"BX","marker":{"color":"rgba(252,141,98,1)","line":{"color":"rgba(252,141,98,1)"}},"textfont":{"color":"rgba(252,141,98,1)"},"error_y":{"color":"rgba(252,141,98,1)"},"error_x":{"color":"rgba(252,141,98,1)"},"line":{"color":"rgba(252,141,98,1)"},"xaxis":"x","yaxis":"y","frame":null},{"x":[583,590,676,717,718,719,720,721,722,723,724,734,735,736,737,738,739,742,743,744,749,750,751,752,753,754,755,756,757,758,791,792,793,794,795,796,797,798,799,800],"y":[2,1,1,6,4,5,2,3,3,4,1,3,6,4,4,2,2,6,1,2,3,2,2,3,4,4,2,3,1,3,4,3,4,1,1,1,1,3,3,1],"text":["N702, R251","R238","R192","R133, A027, R550, R135, A022, N070","N529, A064, N520, N525","R219, A038, N523, H006, A034","R201, R101","A083, R111, R203","R106, A054, R103","A069, A047, R116, N094","H007","R226, N508, A030","R129, N080, R131, N076, N078, N512","R215, N086, A041, R217","R119, N089, R117, A043","R125, R123","R228, R231","N301, A013, R154, N056, N600, A010","N500","R247, N700","N303, N305, A002","R161B, R160","R164, R162","R170, R172, R168","N035, N030, R302, R301","R173, R174, R304, N026","N701, R249","R252, R254, R256","N024","R176, R178, N019","N017, N016A, R180, R182","N007A, N010, R183","R190, N003, R188, N002A","R258","N060","R306","N095","R308, N202, R309","R185, R186, N006A","N602"],"mode":"markers","type":"scatter","name":"M","marker":{"color":"rgba(141,160,203,1)","line":{"color":"rgba(141,160,203,1)"}},"textfont":{"color":"rgba(141,160,203,1)"},"error_y":{"color":"rgba(141,160,203,1)"},"error_x":{"color":"rgba(141,160,203,1)"},"line":{"color":"rgba(141,160,203,1)"},"xaxis":"x","yaxis":"y","frame":null},{"x":[824,838,843,844,845,846,848,849,853,873,874,875,876,877,878,1027,1028,1029,1030,1162,1164,1165,1166,1168,1216,1262],"y":[1,3,7,1,4,5,1,3,1,10,2,2,2,1,2,4,2,2,3,1,6,4,2,3,4,2],"text":["R533","R530, R529, R532","R527, N325A, R526, R528, N329, R525, N327","N330B","N331, N334B, N333A, N336","R521, N322, R523, R524, N318","K026","K022, K024, K025","N182","N401, R516, N312, R510, R507, R504, N307, R509, N309A, N603","R513, R514","N316, N315","R518, R519","R515","R512, R511","N195, N194, N196, N193","N192, N191","N184, N183","N185, N187, N186","N337","N131, N133, N181A, N137, N181, N134","J034, N604, J037, J035","N139, N141","J028, J030, J031","N340A, N339A, N343, N606","N338B, N605"],"mode":"markers","type":"scatter","name":"Q","marker":{"color":"rgba(231,138,195,1)","line":{"color":"rgba(231,138,195,1)"}},"textfont":{"color":"rgba(231,138,195,1)"},"error_y":{"color":"rgba(231,138,195,1)"},"error_x":{"color":"rgba(231,138,195,1)"},"line":{"color":"rgba(231,138,195,1)"},"xaxis":"x","yaxis":"y","frame":null},{"x":[604,607],"y":[1,1],"text":["S101","S102"],"mode":"markers","type":"scatter","name":"SI","marker":{"color":"rgba(166,216,84,1)","line":{"color":"rgba(166,216,84,1)"}},"textfont":{"color":"rgba(166,216,84,1)"},"error_y":{"color":"rgba(166,216,84,1)"},"error_x":{"color":"rgba(166,216,84,1)"},"line":{"color":"rgba(166,216,84,1)"},"xaxis":"x","yaxis":"y","frame":null}],"highlight":{"on":"plotly_click","persistent":false,"dynamic":false,"selectize":false,"opacityDim":0.20000000000000001,"selected":{"opacity":1},"debounce":0},"shinyEvents":["plotly_hover","plotly_click","plotly_selected","plotly_relayout","plotly_brushed","plotly_brushing","plotly_clickannotation","plotly_doubleclick","plotly_deselect","plotly_afterplot","plotly_sunburstclick"],"base_url":"https://plot.ly"},"evals":[],"jsHooks":[]}</script>
 </div>
 </div>
 <p>This graph visualizes the distribution of subway or train stations across different zip codes in New York City. Each dot represents a zip code, with the x-axis indicating the numerical range of zip codes and the y-axis showing the number of stations in that zip code. The dots are color-coded by boroughs, with BK for Brooklyn, BX for Bronx, M for Manhattan, Q for Queens, and SI for Staten Island.</p>
 <p>From the graph, it’s clear that there’s a wide range of station counts across the zip codes. Some zip codes, have a high number of stations, suggesting they are significant transit hubs within the borough of Brooklyn (BK). Other zip codes have fewer stations, which could be due to a variety of factors, such as lower population density or less demand for public transit.</p>
 <p>This visualization can provide insights into the accessibility of public transportation across New York City and could be used to identify areas that might benefit from additional transit services.</p>
 </section>
-<section id="hai-1" class="level2" data-number="3.10">
-<h2 data-number="3.10" class="anchored" data-anchor-id="hai-1"><span class="header-section-number">3.10</span> Hai</h2>
+<section id="top-10-stations-during-peak-and-non-peak-times" class="level2" data-number="3.10">
+<h2 data-number="3.10" class="anchored" data-anchor-id="top-10-stations-during-peak-and-non-peak-times"><span class="header-section-number">3.10</span> Top 10 Stations during Peak and Non Peak Times</h2>
 <div class="cell">
 <details>
 <summary>Code</summary>
@@ -568,7 +568,9 @@ using the `.groups` argument.</code></pre>
 <span id="cb18-13"><a href="#cb18-13" aria-hidden="true" tabindex="-1"></a><span class="fu">ggplot</span>(peak_data, <span class="fu">aes</span>(<span class="at">x =</span> <span class="fu">reorder</span>(station_complex, total_ridership), <span class="at">y =</span> total_ridership)) <span class="sc">+</span></span>
 <span id="cb18-14"><a href="#cb18-14" aria-hidden="true" tabindex="-1"></a>  <span class="fu">geom_bar</span>(<span class="at">stat =</span> <span class="st">"identity"</span>, <span class="at">color =</span> <span class="st">"steelblue"</span>, <span class="at">fill =</span> <span class="st">"steelblue"</span>) <span class="sc">+</span></span>
 <span id="cb18-15"><a href="#cb18-15" aria-hidden="true" tabindex="-1"></a>  <span class="fu">labs</span>(<span class="at">title =</span> <span class="st">"Top 10 Busiest Stations During Peak Travel Times"</span>, <span class="at">x =</span> <span class="st">"Total Ridership"</span>, <span class="at">y =</span> <span class="st">"Station Complex"</span>) <span class="sc">+</span></span>
-<span id="cb18-16"><a href="#cb18-16" aria-hidden="true" tabindex="-1"></a>  <span class="fu">theme</span>(<span class="at">axis.text.x =</span> <span class="fu">element_text</span>(<span class="at">angle =</span> <span class="dv">45</span>, <span class="at">vjust =</span> <span class="dv">1</span>, <span class="at">hjust =</span> <span class="dv">1</span>))</span></code><button title="Copy to Clipboard" class="code-copy-button"><i class="bi"></i></button></pre></div>
+<span id="cb18-16"><a href="#cb18-16" aria-hidden="true" tabindex="-1"></a>  <span class="fu">scale_y_continuous</span>(<span class="at">labels =</span> <span class="cf">function</span>(x) <span class="fu">format</span>(x, <span class="at">big.mark =</span> <span class="st">","</span>, <span class="at">scientific =</span> <span class="cn">FALSE</span>)) <span class="sc">+</span></span>
+<span id="cb18-17"><a href="#cb18-17" aria-hidden="true" tabindex="-1"></a></span>
+<span id="cb18-18"><a href="#cb18-18" aria-hidden="true" tabindex="-1"></a>  <span class="fu">theme</span>(<span class="at">axis.text.x =</span> <span class="fu">element_text</span>(<span class="at">angle =</span> <span class="dv">45</span>, <span class="at">vjust =</span> <span class="dv">1</span>, <span class="at">hjust =</span> <span class="dv">1</span>))</span></code><button title="Copy to Clipboard" class="code-copy-button"><i class="bi"></i></button></pre></div>
 </details>
 <div class="cell-output-display">
 <p><img src="results_files/figure-html/unnamed-chunk-10-1.png" class="img-fluid" width="672"></p>
@@ -578,13 +580,16 @@ using the `.groups` argument.</code></pre>
 <div class="sourceCode cell-code" id="cb19"><pre class="sourceCode r code-with-copy"><code class="sourceCode r"><span id="cb19-1"><a href="#cb19-1" aria-hidden="true" tabindex="-1"></a><span class="fu">ggplot</span>(non_peak_data, <span class="fu">aes</span>(<span class="at">x =</span> <span class="fu">reorder</span>(station_complex, total_ridership), <span class="at">y =</span> total_ridership)) <span class="sc">+</span></span>
 <span id="cb19-2"><a href="#cb19-2" aria-hidden="true" tabindex="-1"></a>  <span class="fu">geom_bar</span>(<span class="at">stat =</span> <span class="st">"identity"</span>, <span class="at">color =</span> <span class="st">"firebrick"</span>, <span class="at">fill =</span> <span class="st">"firebrick"</span>) <span class="sc">+</span></span>
 <span id="cb19-3"><a href="#cb19-3" aria-hidden="true" tabindex="-1"></a>  <span class="fu">labs</span>(<span class="at">title =</span> <span class="st">"Top 10 Busiest Stations During Non-Peak Travel Times"</span>, <span class="at">x =</span> <span class="st">"Total Ridership"</span>, <span class="at">y =</span> <span class="st">"Station Complex"</span>) <span class="sc">+</span></span>
-<span id="cb19-4"><a href="#cb19-4" aria-hidden="true" tabindex="-1"></a>  <span class="fu">theme</span>(<span class="at">axis.text.x =</span> <span class="fu">element_text</span>(<span class="at">angle =</span> <span class="dv">45</span>, <span class="at">vjust =</span> <span class="dv">1</span>, <span class="at">hjust =</span> <span class="dv">1</span>))</span></code><button title="Copy to Clipboard" class="code-copy-button"><i class="bi"></i></button></pre></div>
+<span id="cb19-4"><a href="#cb19-4" aria-hidden="true" tabindex="-1"></a>  <span class="fu">scale_y_continuous</span>(<span class="at">labels =</span> <span class="cf">function</span>(x) <span class="fu">format</span>(x, <span class="at">big.mark =</span> <span class="st">","</span>, <span class="at">scientific =</span> <span class="cn">FALSE</span>)) <span class="sc">+</span></span>
+<span id="cb19-5"><a href="#cb19-5" aria-hidden="true" tabindex="-1"></a>  <span class="fu">theme</span>(<span class="at">axis.text.x =</span> <span class="fu">element_text</span>(<span class="at">angle =</span> <span class="dv">45</span>, <span class="at">vjust =</span> <span class="dv">1</span>, <span class="at">hjust =</span> <span class="dv">1</span>))</span></code><button title="Copy to Clipboard" class="code-copy-button"><i class="bi"></i></button></pre></div>
 </details>
 <div class="cell-output-display">
 <p><img src="results_files/figure-html/unnamed-chunk-10-2.png" class="img-fluid" width="672"></p>
 </div>
 </div>
-<p>The graph represents a quantitative comparison of station complexes based on the volume of ridership during the busiest periods of travel, such as rush hours. The vertical axis measures the total ridership in a numeric format (which appears to be in the hundreds of thousands based on the scale), and the horizontal axis lists the station complexes. This graph helps to identify which stations have the highest demand during peak hours, information that can be critical for transit authorities for resource allocation, scheduling, and improving services. It can also indicate the flow of commuter traffic and highlight potential areas for infrastructure development.</p>
+<p>The bar charts presented are based on a definition of peak travel hours within the dataset used to generate them. The peak hours have been specifically set to include the early morning hours of 7 AM to 10 AM and the evening hours of 5 PM to 8 PM. These times, are typically associated with the rush hours during which commuters travel to and from work, resulting in the highest demand for public transportation services.</p>
+<p>The “Top 10 Busiest Stations During Peak Travel Times” chart uses this definition to determine which stations experience the most traffic during these critical hours, here, the top two being “Canal St” and “Wall St”. Similarly, the “Top 10 Busiest Stations During Non-Peak Travel Times” chart contrasts this by showing the stations with the highest ridership outside of these designated peak times, here, the top two being “West 4 Washington St” and “49 St”. The data illustrates how ridership volume varies between these high-demand periods and less busy times of the day, providing insights that can help in planning for capacity, scheduling, and other operational considerations.</p>
+<p>Understanding the dynamics of peak vs.&nbsp;non-peak ridership is essential for efficient transit management, as it influences staffing levels, frequency of service, and the need for crowd management strategies at these stations.</p>
 
 
 </section>

diff --git a/docs/conclusion.html b/docs/conclusion.html
@@ -158,7 +158,7 @@ ul.task-list li input[type="checkbox"] {
 
 </header>
 
-<p>These are some of the inferences we can draw from the plots we constructed.</p>
+<p>These are some of the inferences we can draw from the plots we constructed:</p>
 <ol type="1">
 <li><p><strong>Ridership Over Time</strong>: The graph shows fluctuations in ridership across different days, reflecting typical patterns of subway usage. It likely indicates higher ridership on specific days, which could correspond to workdays, suggesting a commuting pattern among subway users.</p></li>
 <li><p><strong>Ridership by Borough</strong>: The ridership distribution among boroughs highlights which areas have higher subway usage. This information is crucial for transit planning, as it indicates where the demand for subway services is concentrated.</p></li>
@@ -169,6 +169,11 @@ ul.task-list li input[type="checkbox"] {
 <li><p><strong>Heatmap of Transfers at Different Stations</strong>: This heatmap likely identifies stations with high transfer activities, indicating major junctions in the subway system. These stations are critical points for connectivity and passenger flow within the network.</p></li>
 <li><p><strong>Variability and Outliers of Ridership Among Different Boroughs</strong>: The boxplot indicates the consistency or variance in ridership among different boroughs, with outliers highlighting days with unusually high or low ridership, possibly due to special events or disruptions.</p></li>
 </ol>
+<p>Coming to our research questions on <em>1. Which stations see the highest foot traffic?</em> From our plot 3.5, where we note down the top 10 and bottom 10 stations based on rider population, we notice that the West 4-St Washington Sq station sees the highest foot traffic.</p>
+<p><em>2. How do subway traffic patterns vary across different days of the week? </em> From plot 3.7, we notice that the traffic patterns are slightly different across the weekdays and weekends. During the weekdays, there is a sudden peak in ridership during the peak hours, which is the time during whe people usually travel to/from work/university/school.</p>
+<p>This behavior of increased traffic during peak hours is not seen on the weekends on our graphs.</p>
+<p><em>3. What are the busiest boroughs? </em> Through graph 3.4, we notice that the busiest borough is Manhattan, followed by Brooklyn. Staten Island seems to have the least ridership. This can also be attributed to the fact that Staten Island does not have a very comprehensive subway system, and is also much smaller in size.</p>
+<p><em>4. What are the busiest stations during peak travel times? </em> From plot 3.10, we notice that Canal Street station has the highest population during peak hours, followed by Wall Street. During the non-peak hours, West 4-St Washington Sq has the highest traffic, closely followed by 49th Street.</p>
 <p>Overall, these graphs collectively provide a comprehensive understanding of the New York City subway system’s usage patterns. They reveal important insights into daily and weekly transit rhythms, commuter behaviors, payment preferences, and the subway network’s key hubs. This information is invaluable for transit authorities for effective management, planning, and enhancement of subway services.</p>
 
 
